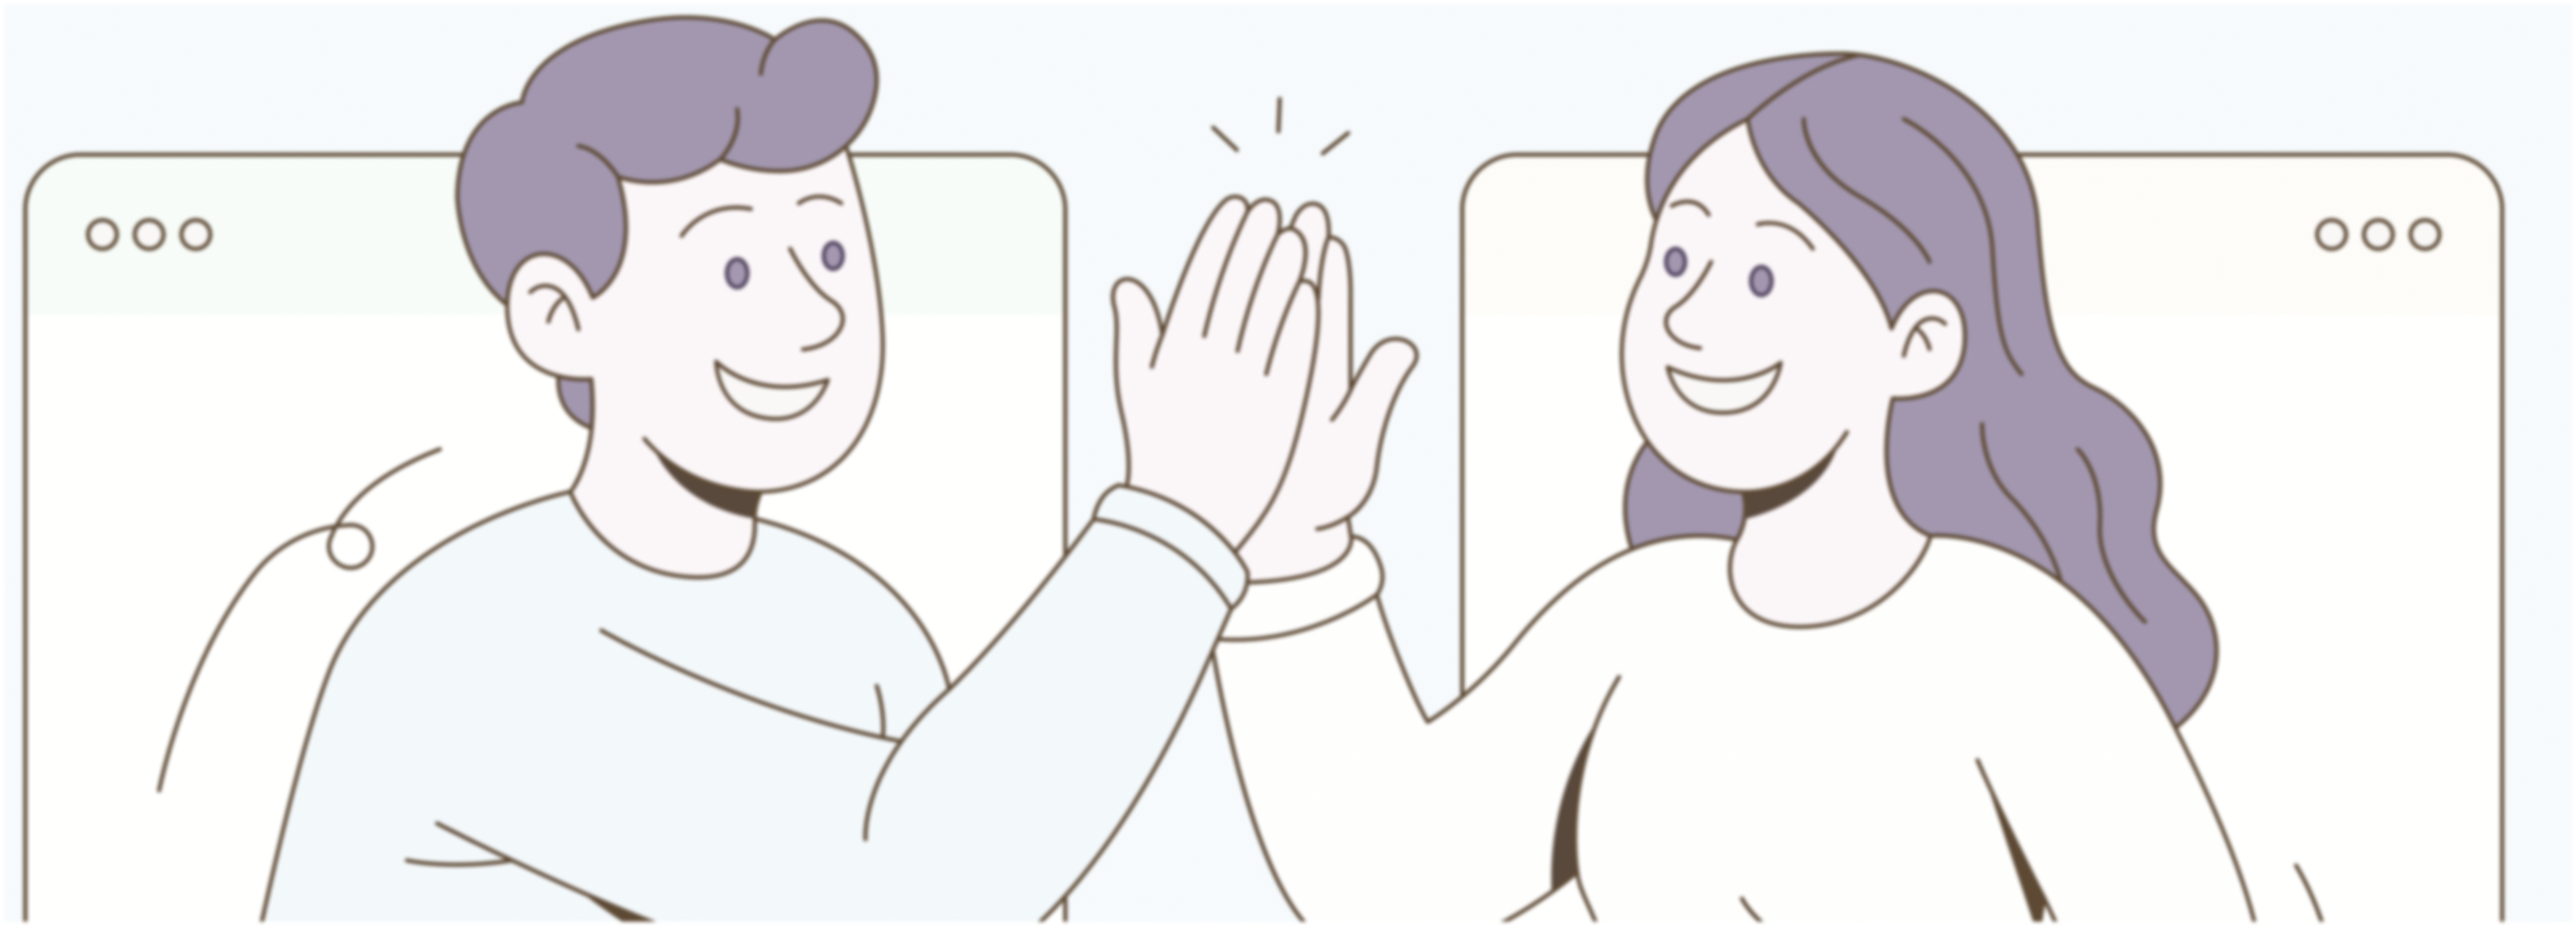
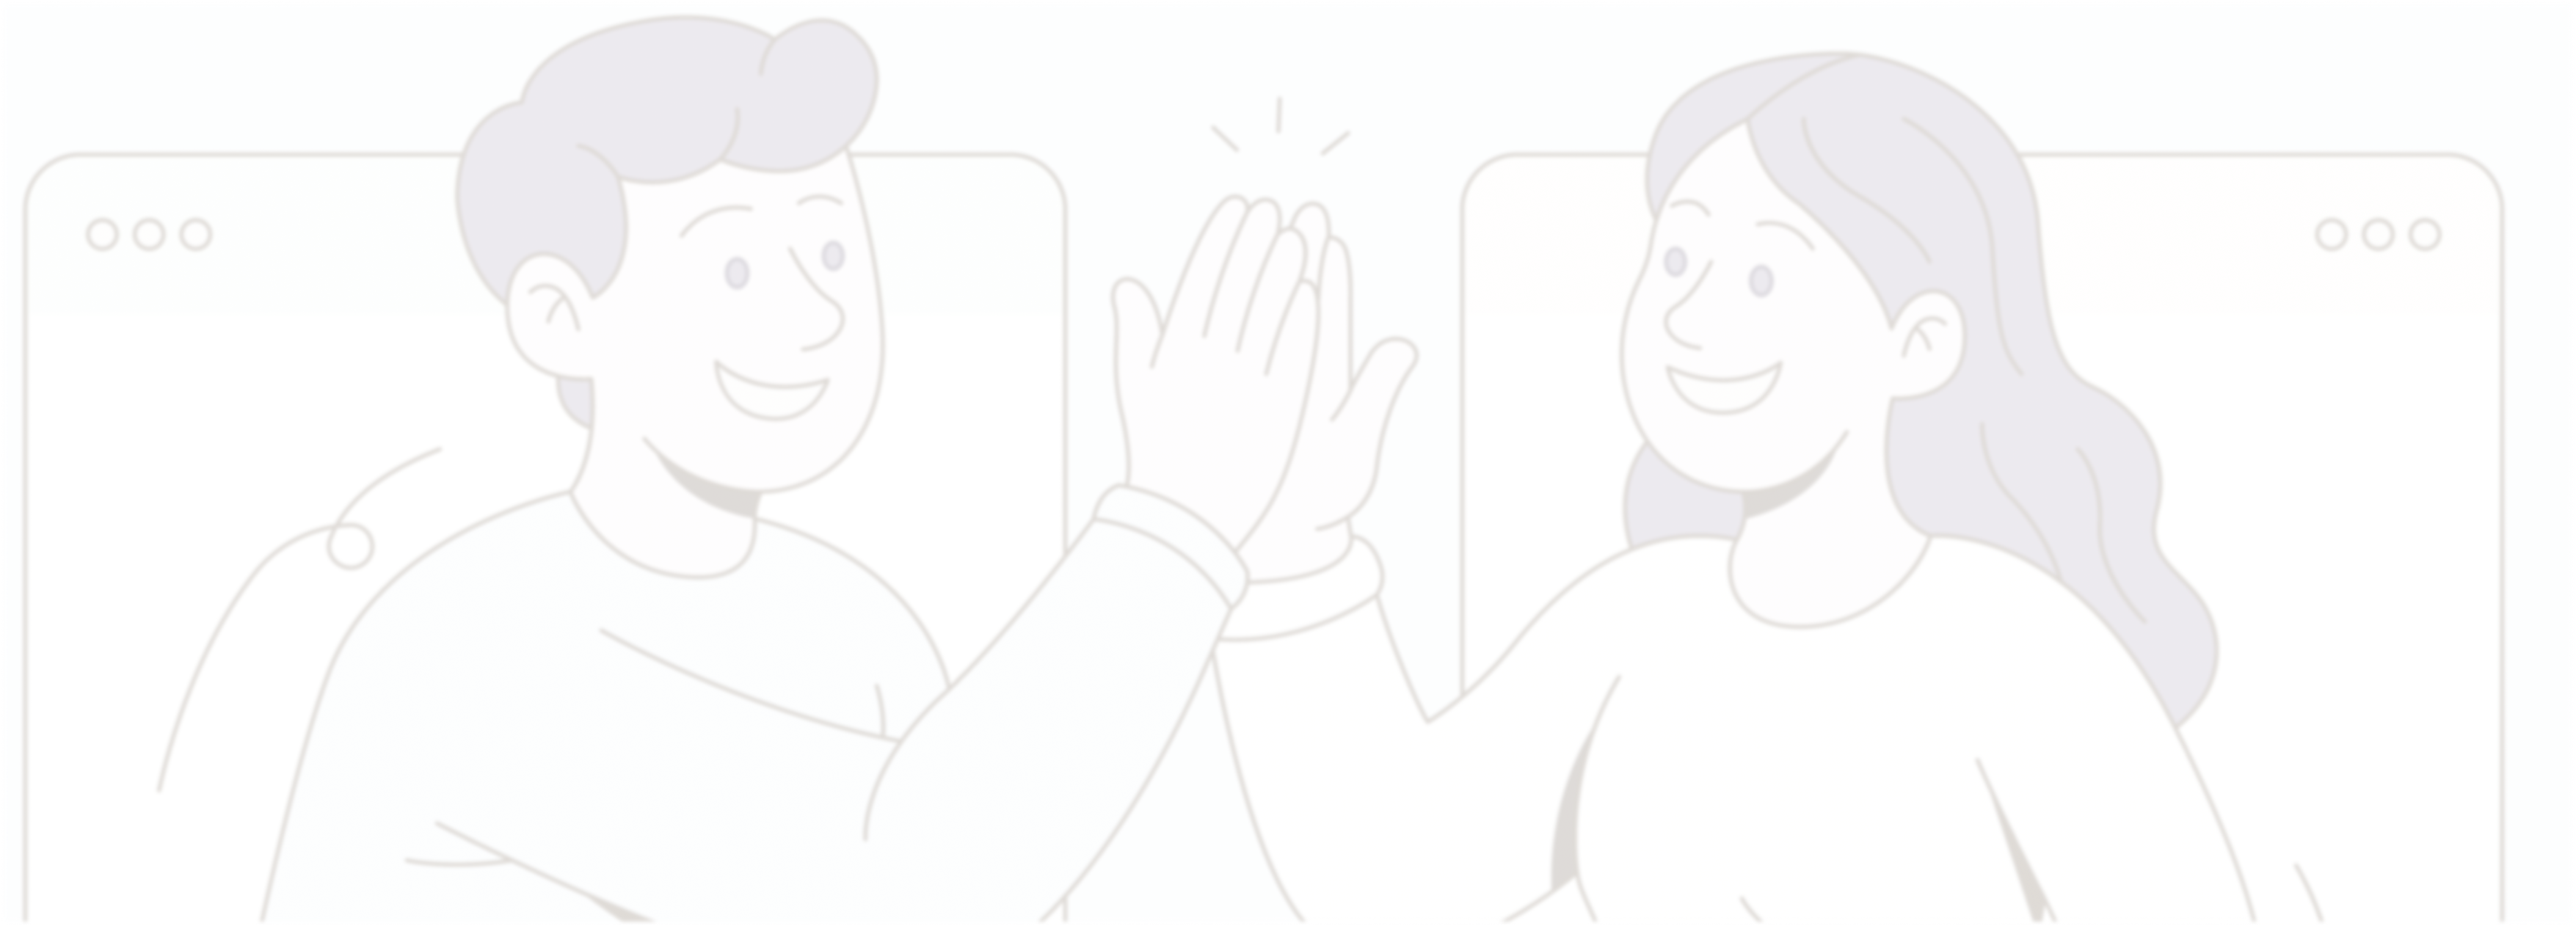
온보딩 이미지 교체 및 오파시티 재 수정

diff --git a/markup/assets/css/scss/_learning.scss b/markup/assets/css/scss/_learning.scss
@@ -215,11 +215,13 @@ $chapter-widths: (
         }
 
         &:not(.completed) {
+          .piece-overlay-base {
+            fill-opacity: 0.2;
+          }
           &[data-piece="1"],
           &[data-piece="6"] {
             .piece-overlay-base {
               fill: var(--bg-piece-1);
-              fill-opacity: 0.1;
             }
           }
 
@@ -229,7 +231,6 @@ $chapter-widths: (
           &[data-piece="5"] {
             .piece-overlay-base {
               fill: var(--bg-piece-2);
-              fill-opacity: 0.1;
             }
           }
 
@@ -237,7 +238,6 @@ $chapter-widths: (
           &[data-piece="8"] {
             .piece-overlay-base {
               fill: var(--bg-piece-3);
-              fill-opacity: 0.1;
             }
           }
 
@@ -245,7 +245,6 @@ $chapter-widths: (
           &[data-piece="10"] {
             .piece-overlay-base {
               fill: var(--bg-piece-4);
-              fill-opacity: 0.1;
             }
           }
         }
@@ -266,6 +265,7 @@ $chapter-widths: (
         }
       }
     }
+
   }
 }
 

diff --git a/markup/assets/js/puzzle-onboarding.js b/markup/assets/js/puzzle-onboarding.js
@@ -34,7 +34,7 @@ const DEFAULT_CONFIG = {
   },
 
   IMAGE_PATHS: {
-    BASE: "./assets/images/onboarding/bg_piece.png",
+    BASE: "./assets/images/onboarding/bg_piece.jpg",
     COMPLETED: {
       ACTIVE: "./assets/images/onboarding/bg_piece_completed.png",
       COMPLETED: "./assets/images/onboarding/bg_piece_all_completed.png",
